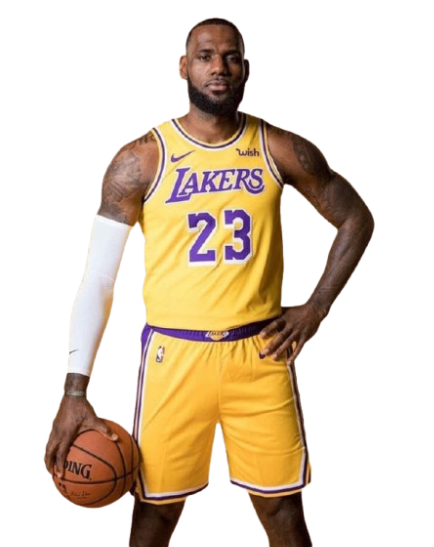
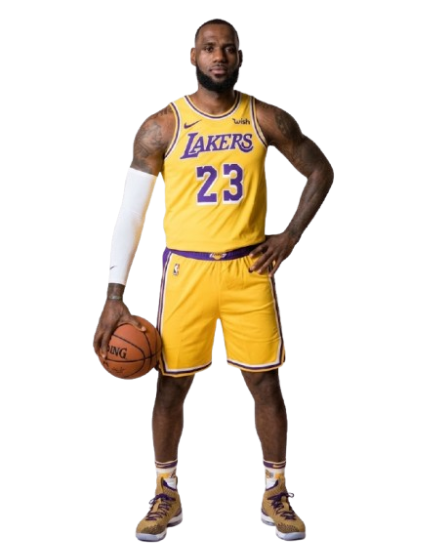
feat: implement story configuration system and visual novel scene framework with new assets

diff --git a/app/scene1/page.tsx b/app/scene1/page.tsx
@@ -5,20 +5,36 @@ import { useRouter, useSearchParams } from "next/navigation";
 import { BACKGROUND_URLS } from "@/lib/story-config";
 import { SakuraParticles } from "../components/SakuraParticles";
 
-const AyanoSprite = ({ isNarrator, charUrl }: { isNarrator: boolean, charUrl: string }) => {
+const CharacterSprite = ({ isNarrator, charUrl, mood }: { isNarrator: boolean, charUrl: string, mood: string }) => {
+  let currentImage = charUrl;
+  let isLeBron = charUrl.includes("lebron");
+
+  if (charUrl === "/partner.png") {
+    if (mood === "smile" || mood === "happy") currentImage = "/ayano_smile.png";
+    else if (mood === "sad") currentImage = "/ayano_sad.png";
+  } else if (isLeBron) {
+    if (mood === "sad") currentImage = "/lebron_sad.png";
+    else if (mood === "smile" || mood === "happy") currentImage = "/lebron_happy.png";
+  }
+
   const opacityClass = isNarrator
     ? "opacity-40 scale-95 translate-y-8 blur-[2px]"
     : "opacity-100 scale-100 translate-y-0 filter drop-shadow-[0_0_20px_rgba(255,183,178,0.3)]";
 
+  const sizeClass = isLeBron 
+    ? "w-[400px] h-[500px] md:w-[550px] md:h-[650px]"
+    : "w-[350px] h-[450px] md:w-[450px] md:h-[550px]";
+
   return (
     <div
-      className={`absolute bottom-0 left-1/2 -translate-x-1/2 w-[350px] h-[450px] md:w-[450px] md:h-[550px] transition-all duration-700 ease-in-out ${opacityClass} pointer-events-none z-20`}
+      className={`absolute bottom-0 left-1/2 -translate-x-1/2 ${sizeClass} transition-all duration-700 ease-in-out ${opacityClass} pointer-events-none z-20`}
     >
       {/* eslint-disable-next-line @next/next/no-img-element */}
       <img
-        src={charUrl || "/partner.png"}
-        alt="Anime Character"
-        className="w-full h-full object-contain animate-breathe drop-shadow-2xl"
+        key={currentImage}
+        src={currentImage || "/partner.png"}
+        alt="Character"
+        className="w-full h-full object-contain animate-breathe drop-shadow-2xl transition-opacity duration-300"
       />
     </div>
   );
@@ -44,9 +60,9 @@ interface SceneData {
   next?: string;
 }
 
-const STORY_DATA: Record<string, SceneData> = {
+const AYANO_STORY_DATA: Record<string, SceneData> = {
   intro: {
-    bg: BACKGROUND_URLS.digital_city,
+    bg: BACKGROUND_URLS.school_yard,
     script: [
       {
         speaker: "",
@@ -70,7 +86,7 @@ const STORY_DATA: Record<string, SceneData> = {
     ],
   },
   web3_expert: {
-    bg: BACKGROUND_URLS.cyber_cafe,
+    bg: BACKGROUND_URLS.library,
     script: [
       { speaker: "Ayano", text: "Correct! Unlike Web2, we aren't just the product anymore. We own our data and assets.", mood: "happy" },
       { speaker: "Ayano", text: "Look at my wallet—it's my gateway to everything here. But security is on us now.", mood: "neutral" },
@@ -86,7 +102,7 @@ const STORY_DATA: Record<string, SceneData> = {
     ],
   },
   web3_noob: {
-    bg: BACKGROUND_URLS.cyber_cafe,
+    bg: BACKGROUND_URLS.school_yard,
     script: [
       { speaker: "Ayano", text: "Not quite... Web2 is centralized, like Google or Facebook. Web3 is decentralized.", mood: "sad" },
       { speaker: "Ayano", text: "It uses Distributed Ledger Technology—blockchain—to remove the middlemen.", mood: "neutral" },
@@ -94,14 +110,14 @@ const STORY_DATA: Record<string, SceneData> = {
     ],
   },
   wallet_setup: {
-    bg: BACKGROUND_URLS.digital_city,
+    bg: BACKGROUND_URLS.school_yard,
     script: [
       { speaker: "Ayano", text: "First, you download the extension, write down your 12-word seed phrase... and NEVER share it!", mood: "serious" },
       { speaker: "Ayano", text: "Okay, you're all set! Now you have a digital identity. But wait... look at this.", mood: "neutral", next: "web3_expert" },
     ],
   },
   security_win: {
-    bg: BACKGROUND_URLS.neon_street,
+    bg: BACKGROUND_URLS.library,
     script: [
       { speaker: "Ayano", text: "Phew! I'm glad you're careful. In 2024 alone, $2.1 billion was lost to hacks and scams.", mood: "smile" },
       { speaker: "Ayano", text: "Since you're so smart, how about we try 'GameFi'? We can play to earn some NFTs!", mood: "happy" },
@@ -117,7 +133,7 @@ const STORY_DATA: Record<string, SceneData> = {
     ],
   },
   scalability_win: {
-    bg: BACKGROUND_URLS.game_center,
+    bg: BACKGROUND_URLS.rooftop,
     script: [
       { speaker: "Ayano", text: "Smart choice! Layer-2 solutions like Rollups make things so much smoother.", mood: "happy" },
       { speaker: "Ayano", text: "We're actually earning assets that we truly own. This is the power of a trustless system.", mood: "smile" },
@@ -131,7 +147,7 @@ const STORY_DATA: Record<string, SceneData> = {
     ],
   },
   scam_ending: {
-    bg: BACKGROUND_URLS.glitch_void,
+    bg: BACKGROUND_URLS.library,
     script: [
       { speaker: "Ayano", text: "No! Your private keys were compromised!", mood: "surprised" },
       { speaker: "Ayano", text: "Everything in your wallet is gone... and there's no 'Forgot Password' in Web3.", mood: "sad" },
@@ -144,7 +160,7 @@ const STORY_DATA: Record<string, SceneData> = {
     ],
   },
   high_fees: {
-    bg: BACKGROUND_URLS.busy_market,
+    bg: BACKGROUND_URLS.cafe,
     script: [
       { speaker: "Ayano", text: "Ugh, the transaction is taking forever and the fees cost more than the prize...", mood: "angry" },
       { speaker: "Ayano", text: "This is the 'Blockchain Trilemma' in action. Scalability is still a hurdle.", mood: "sad" },
@@ -153,10 +169,95 @@ const STORY_DATA: Record<string, SceneData> = {
   },
 };
 
+const LEBRON_STORY_DATA: Record<string, SceneData> = {
+  intro: {
+    bg: BACKGROUND_URLS.locker_room,
+    script: [
+      { speaker: "", text: "The sounds of a bouncing ball echo through the high-tech training facility. The King is waiting.", mood: "neutral" },
+      { speaker: "LeBron", text: "Ay, young blood! Glad you could make it to the facility. We ain't just talking hoops today, we talking Legacy.", mood: "smile" },
+      { speaker: "LeBron", text: "The game is changing. We moving from the 'Read-Write' era to 'Read-Write-Own.' That's Web3.", mood: "serious" },
+      {
+        speaker: "LeBron",
+        text: "You ready to be the owner of your data, or you just wanna stay on the bench and let the tech giants run the plays?",
+        mood: "determined",
+        choices: [
+          { text: "I'm ready to own my game, King!", next: "ownership", affection: 1 },
+          { text: "Wait, isn't this just another app?", next: "bench", affection: -1 },
+        ],
+      },
+    ],
+  },
+  ownership: {
+    bg: BACKGROUND_URLS.office,
+    script: [
+      { speaker: "LeBron", text: "That's what I like to hear! In this league, decentralization is the MVP. No central authority, just the community.", mood: "happy" },
+      { speaker: "LeBron", text: "We use smart contracts—code that executes itself like a perfect fast break. No middleman needed.", mood: "neutral" },
+      {
+        speaker: "LeBron",
+        text: "Now, defense wins championships. Someone DMs you a 'free NFT' link. You jumping for that block or holding your ground?",
+        mood: "serious",
+        choices: [
+          { text: "Check the URL and verify the dApp.", next: "defense_win", affection: 2 },
+          { text: "Click it fast, don't want to miss the drop!", next: "scammed", affection: -5 },
+        ],
+      },
+    ],
+  },
+  bench: {
+    bg: BACKGROUND_URLS.locker_room,
+    script: [
+      { speaker: "LeBron", text: "Nah, man. Web2 is where the big companies own your highlights. In Web3, you tokenize your skill.", mood: "sad" },
+      { speaker: "LeBron", text: "It's about 'Self-Custody.' You're the GM of your own assets. Don't be a spectator.", mood: "neutral", next: "ownership" },
+    ],
+  },
+  defense_win: {
+    bg: BACKGROUND_URLS.arena,
+    script: [
+      { speaker: "LeBron", text: "Solid defense! Most losses come from 'access control exploits.' You gotta guard your private keys like the rock in Game 7.", mood: "happy" },
+      { speaker: "LeBron", text: "Now let's talk offense. We can hit the DeFi markets for some yield farming, or jump into GameFi and earn while we play.", mood: "smile" },
+      {
+        speaker: "LeBron",
+        text: "The network is getting crowded. Do we stay on Layer-1 or move to a Layer-2 solution to save on gas?",
+        mood: "neutral",
+        choices: [
+          { text: "Layer-2! Efficiency is key.", next: "championship", affection: 1 },
+          { text: "Layer-1! I trust the mainnet only.", next: "gas_trap", affection: 0 },
+        ],
+      },
+    ],
+  },
+  championship: {
+    bg: BACKGROUND_URLS.trophy_room,
+    script: [
+      { speaker: "LeBron", text: "Strive for Greatness! Layer-2 is how we scale this game for the masses.", mood: "happy" },
+      { speaker: "LeBron", text: "You’ve got the tools now: Wallets, DeFi, and the security mindset. You’re a starter now.", mood: "smile" },
+      { speaker: "LeBron", text: "Just remember: keep that Secret Recovery Phrase offline. That's the playbook. Don't lose it.", mood: "serious" },
+      { speaker: "", text: "The King hands you a tokenized championship ring. Your journey in the decentralized world has just begun.", mood: "neutral", next: "CREDITS" },
+    ],
+  },
+  gas_trap: {
+    bg: BACKGROUND_URLS.arena,
+    script: [
+      { speaker: "LeBron", text: "Man, those gas fees just blocked your shot. We gotta look at scalability if we wanna win big.", mood: "sad" },
+      { speaker: "LeBron", text: "Let's regroup and look at some Sharding or Layer-2 solutions next time.", mood: "neutral", next: "CREDITS" },
+    ],
+  },
+  scammed: {
+    bg: BACKGROUND_URLS.locker_room,
+    script: [
+      { speaker: "LeBron", text: "Young blood... you just got posterized by a phishing scam.", mood: "surprised" },
+      { speaker: "LeBron", text: "In this game, if you lose your keys, there ain't no refs to call a foul. Your assets are gone.", mood: "sad" },
+      { speaker: "", text: "The King shakes his head. You need more time in the lab. Watch those official links next time.", mood: "neutral", next: "CREDITS" },
+    ],
+  },
+};
+
 function Scene1Content() {
   const router = useRouter();
   const searchParams = useSearchParams();
   const charUrl = searchParams.get("charUrl") || "/partner.png";
+  const isLeBron = charUrl.includes("lebron");
+  const STORY_DATA = isLeBron ? LEBRON_STORY_DATA : AYANO_STORY_DATA;
 
   const [currentScene, setCurrentScene] = useState("intro");
   const [lineIndex, setLineIndex] = useState(0);
@@ -301,7 +402,7 @@ function Scene1Content() {
         />
       )}
 
-      <AyanoSprite isNarrator={isNarrator} charUrl={charUrl} />
+      <CharacterSprite isNarrator={isNarrator} charUrl={charUrl} mood={lineData.mood || "neutral"} />
 
       {!uiHidden && !lineData.choices && (
         <div className="absolute inset-0 z-20 cursor-pointer" onClick={handleAdvance} />
@@ -321,7 +422,7 @@ function Scene1Content() {
             className="glass-panel rounded-[2rem] p-8 md:p-10 min-h-[180px] cursor-pointer"
             onClick={handleAdvance}
           >
-            <p className="text-xl md:text-2xl text-white font-medium leading-relaxed drop-shadow-md">
+            <p className="text-xl md:text-2xl text-white font-bold leading-relaxed drop-shadow-[0_2px_4px_rgba(0,0,0,0.8)] tracking-wide">
               {displayedText}
             </p>
 

diff --git a/lib/story-config.ts b/lib/story-config.ts
@@ -1,13 +1,12 @@
 // Story background image URLs
 export const BACKGROUND_URLS = {
-  park: "https://images.unsplash.com/photo-1493976040374-85c8e12f0c0e?auto=format&fit=crop&w=1920&q=80",
-  festival: "https://images.unsplash.com/photo-1511893322472-13c59cf5cece?auto=format&fit=crop&w=1920&q=80",
-  fireworks: "https://images.unsplash.com/photo-1498354228493-27362df2f22b?auto=format&fit=crop&w=1920&q=80",
-  sadEnding: "https://images.unsplash.com/photo-1480796927426-f609979314bd?auto=format&fit=crop&w=1920&q=80",
-  digital_city: "https://images.unsplash.com/photo-1518770660439-4636190af475?auto=format&fit=crop&w=1920&q=80",
-  cyber_cafe: "https://images.unsplash.com/photo-1542751371-adc38448a05e?auto=format&fit=crop&w=1920&q=80",
-  neon_street: "https://images.unsplash.com/photo-1555580399-5f2127267eb4?auto=format&fit=crop&w=1920&q=80",
-  game_center: "https://images.unsplash.com/photo-1550745165-9bc0b252726f?auto=format&fit=crop&w=1920&q=80",
-  glitch_void: "https://images.unsplash.com/photo-1618005182384-a83a8bd57fbe?auto=format&fit=crop&w=1920&q=80",
-  busy_market: "https://images.unsplash.com/photo-1519681393784-d120267933ba?auto=format&fit=crop&w=1920&q=80",
+  classroom: "/bg_classroom.png",
+  school_yard: "/bg_school_yard.png",
+  library: "/bg_library.png",
+  rooftop: "/bg_rooftop.png",
+  cafe: "/bg_cafe.png",
+  locker_room: "/bg_locker_room.png",
+  arena: "/bg_arena.png",
+  office: "/bg_office.png",
+  trophy_room: "/bg_trophy_room.png",
 } as const;

diff --git a/app/globals.css b/app/globals.css
@@ -29,11 +29,11 @@ body {
 }
 
 .glass-panel {
-  background: rgba(255, 255, 255, 0.15);
-  backdrop-filter: blur(16px);
-  -webkit-backdrop-filter: blur(16px);
-  border: 1px solid rgba(255, 255, 255, 0.3);
-  box-shadow: 0 8px 32px 0 rgba(31, 38, 135, 0.2);
+  background: rgba(0, 0, 0, 0.65);
+  backdrop-filter: blur(12px);
+  -webkit-backdrop-filter: blur(12px);
+  border: 1px solid rgba(255, 255, 255, 0.15);
+  box-shadow: 0 8px 32px 0 rgba(0, 0, 0, 0.6);
 }
 
 /* Sakura Petal Animations */
